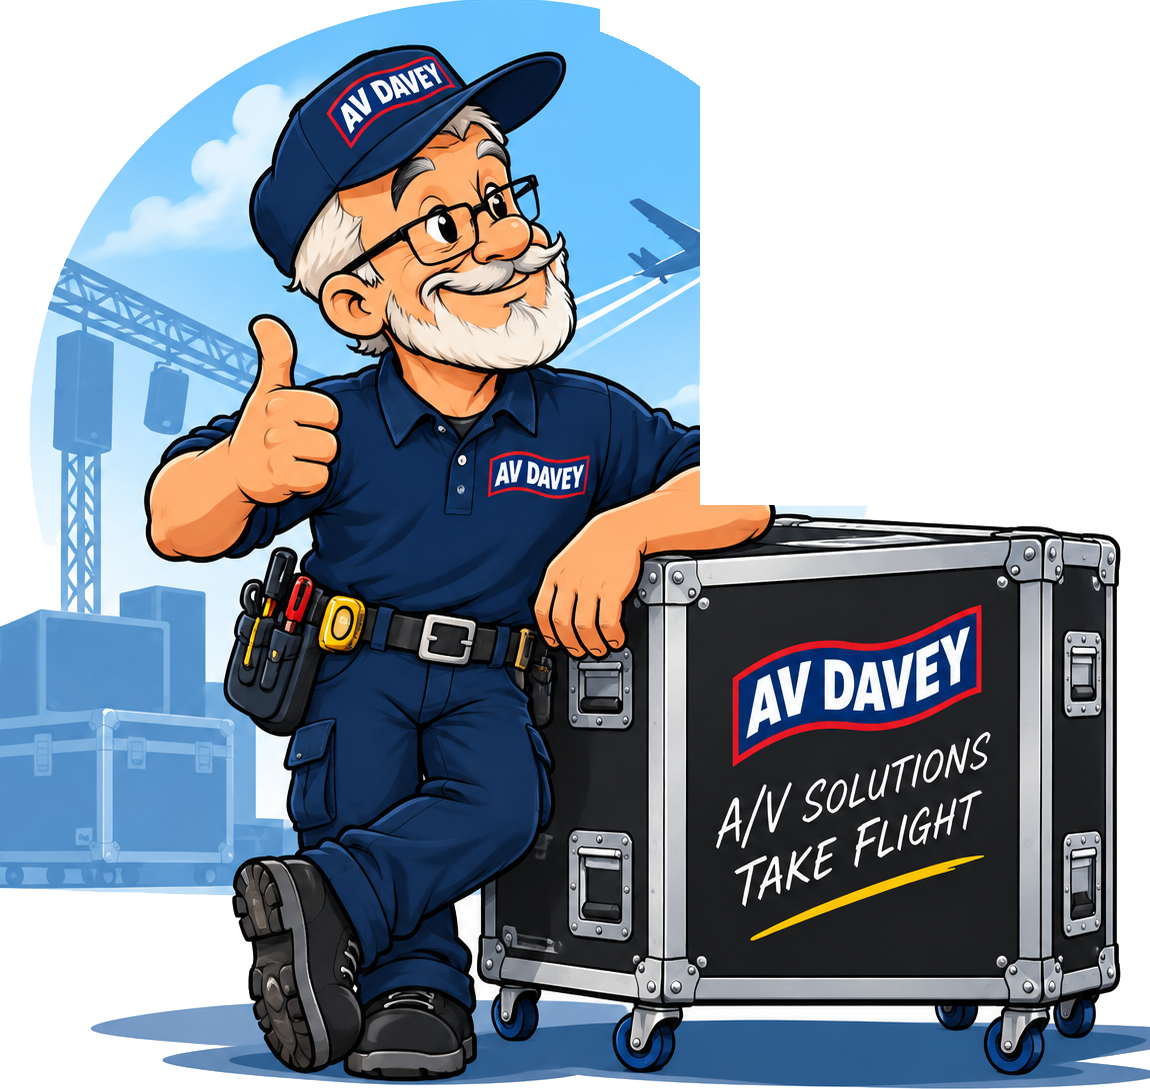
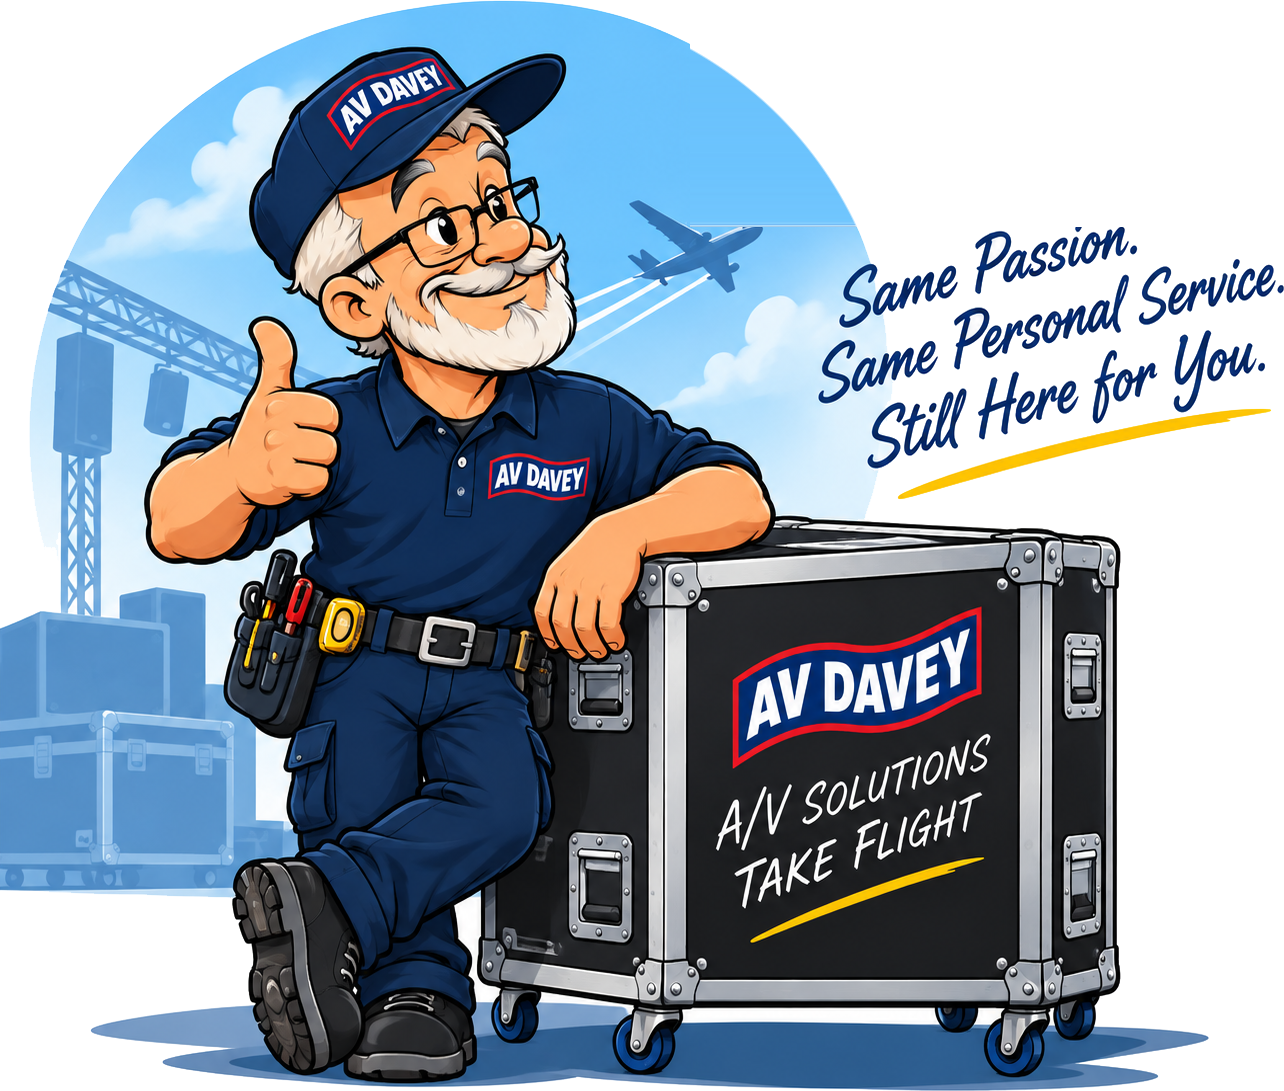
feat: update hero component image alt text and dimensions\n\nUpdated image alt text and changed dimensions for better clarity and fit.

diff --git a/components/site/hero.tsx b/components/site/hero.tsx
@@ -50,11 +50,11 @@ export function Hero() {
         <div className="relative flex min-w-0 items-end justify-center lg:col-span-6 lg:justify-end lg:pr-4">
           <Image
             src="/images/davey-caricature.png"
-            alt="Cartoon illustration of Davey Katz in an A/V DAVEY cap and polo giving a thumbs up while leaning on a branded road case"
-            width={1150}
-            height={1089}
+            alt="Cartoon illustration of Davey Katz giving a thumbs up while leaning on an A/V DAVEY road case, with the words: Same passion. Same personal service. Still here for you."
+            width={1284}
+            height={1091}
             priority
-            className="pointer-events-none relative z-30 w-full max-w-[340px] drop-shadow-xl sm:max-w-[420px] lg:mb-2 lg:max-w-[400px] xl:max-w-[470px]"
+            className="pointer-events-none relative z-30 w-full max-w-[360px] drop-shadow-xl sm:max-w-[460px] lg:mb-2 lg:max-w-[480px] xl:max-w-[560px]"
           />
         </div>
       </div>
